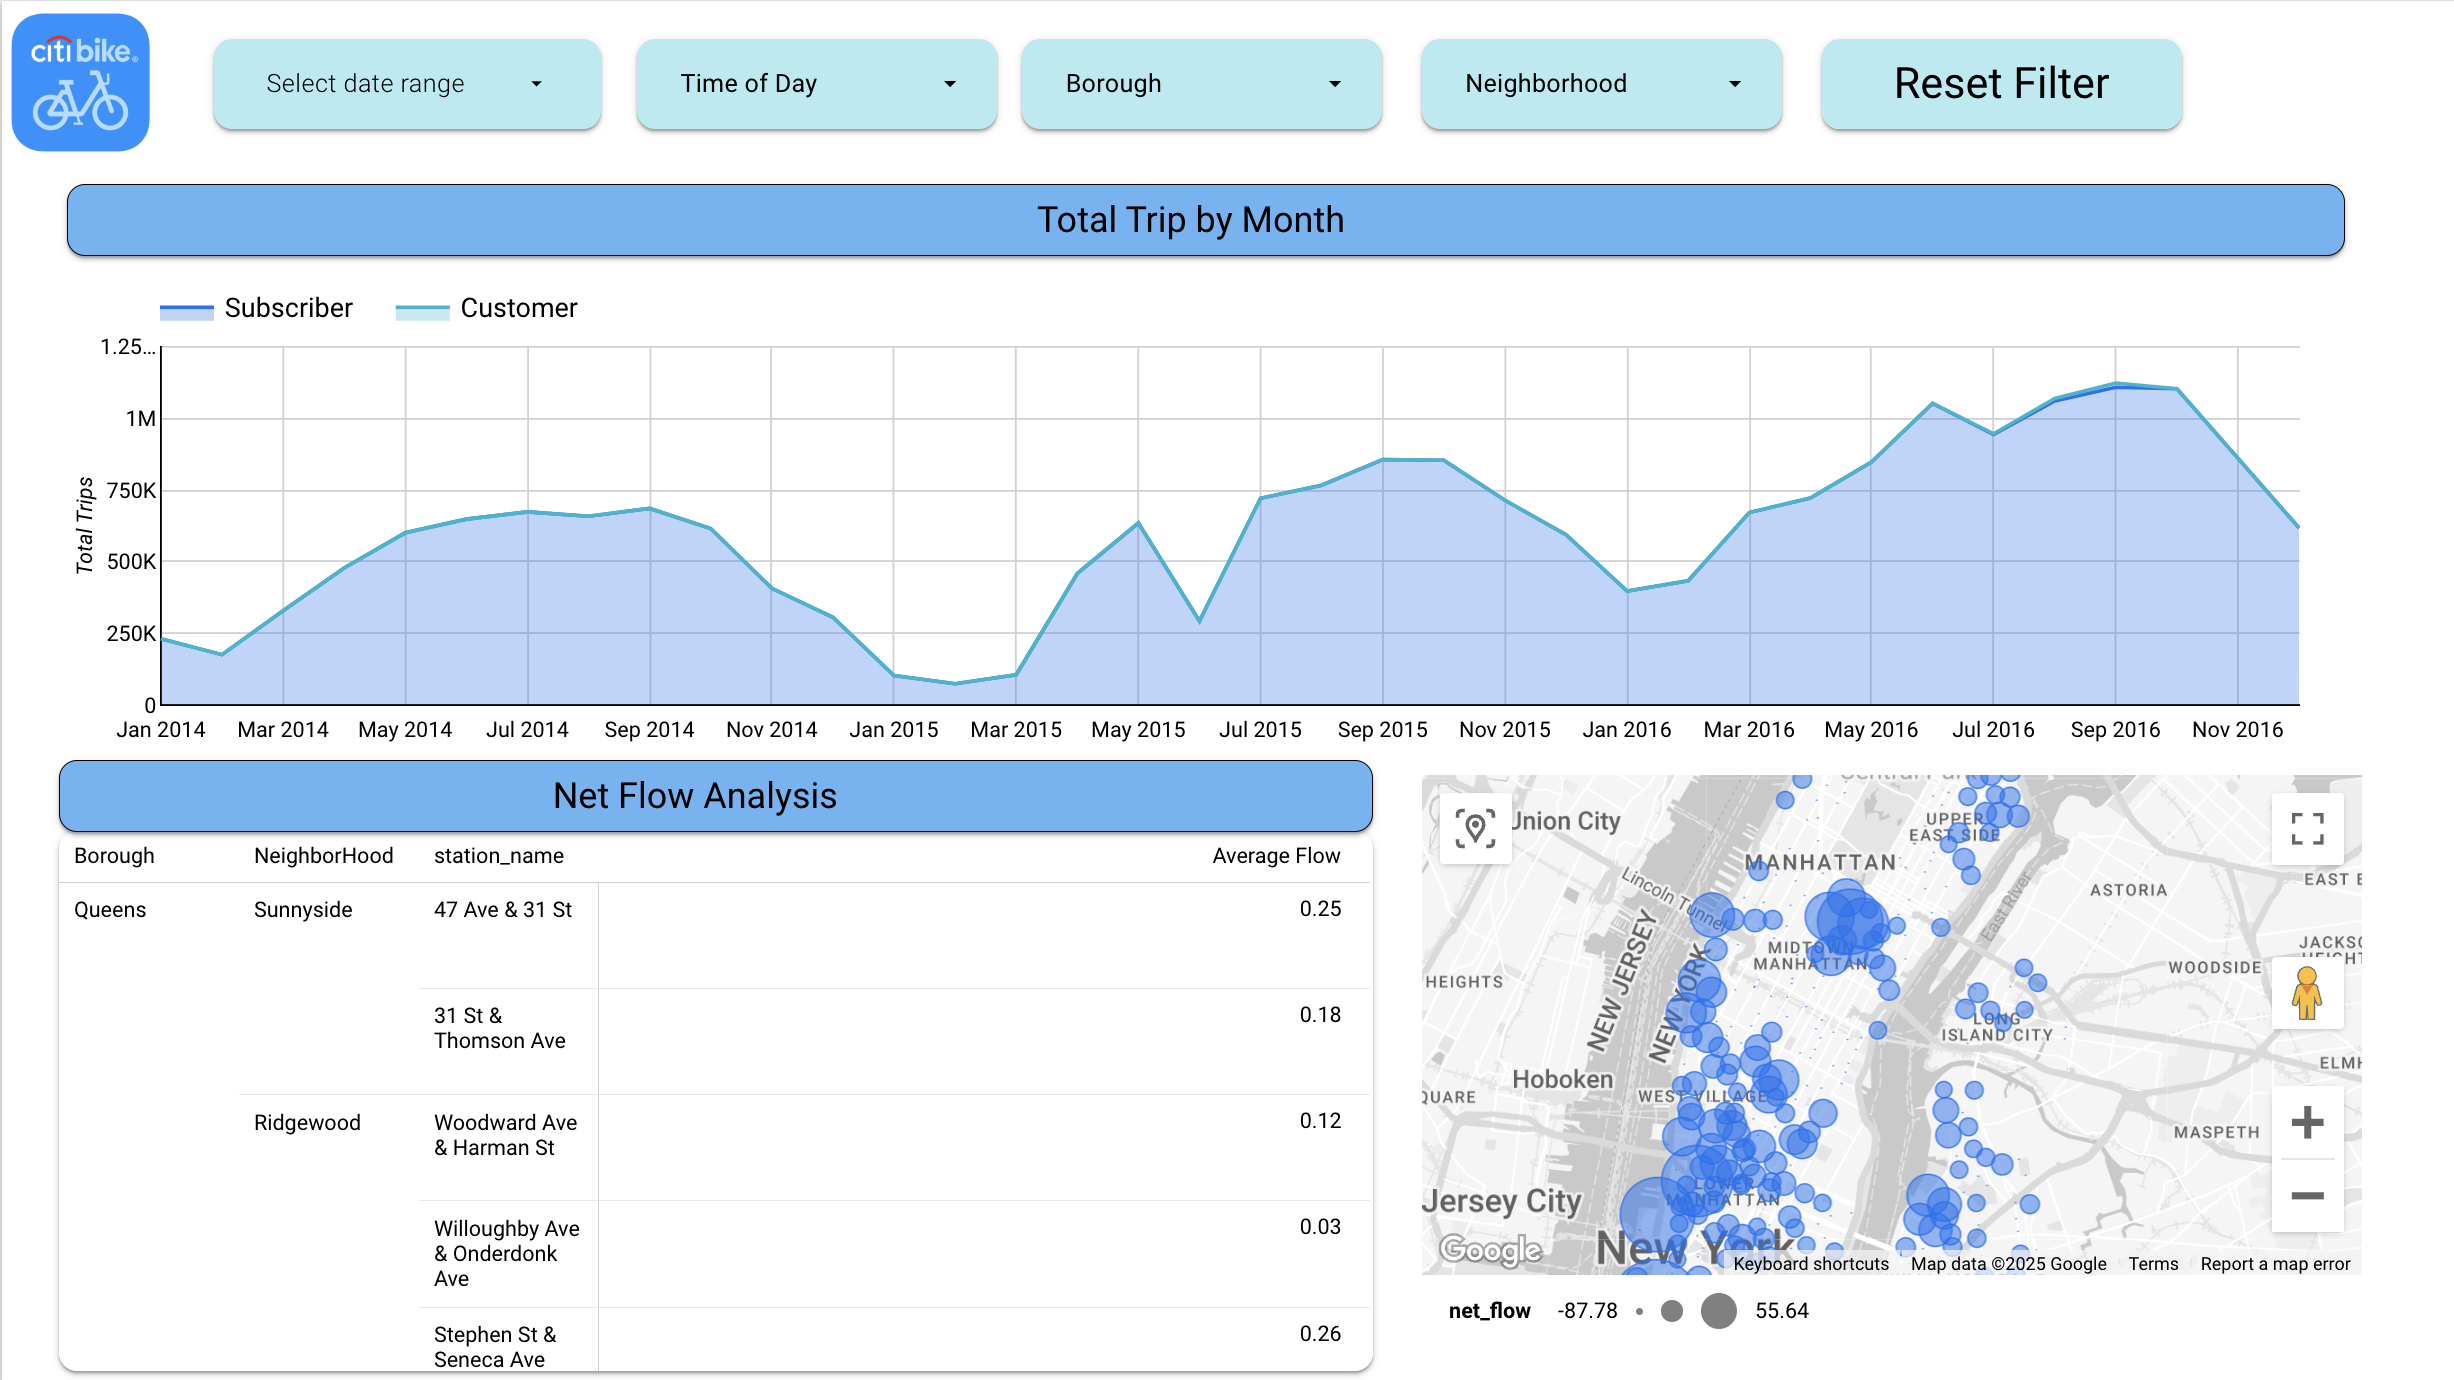
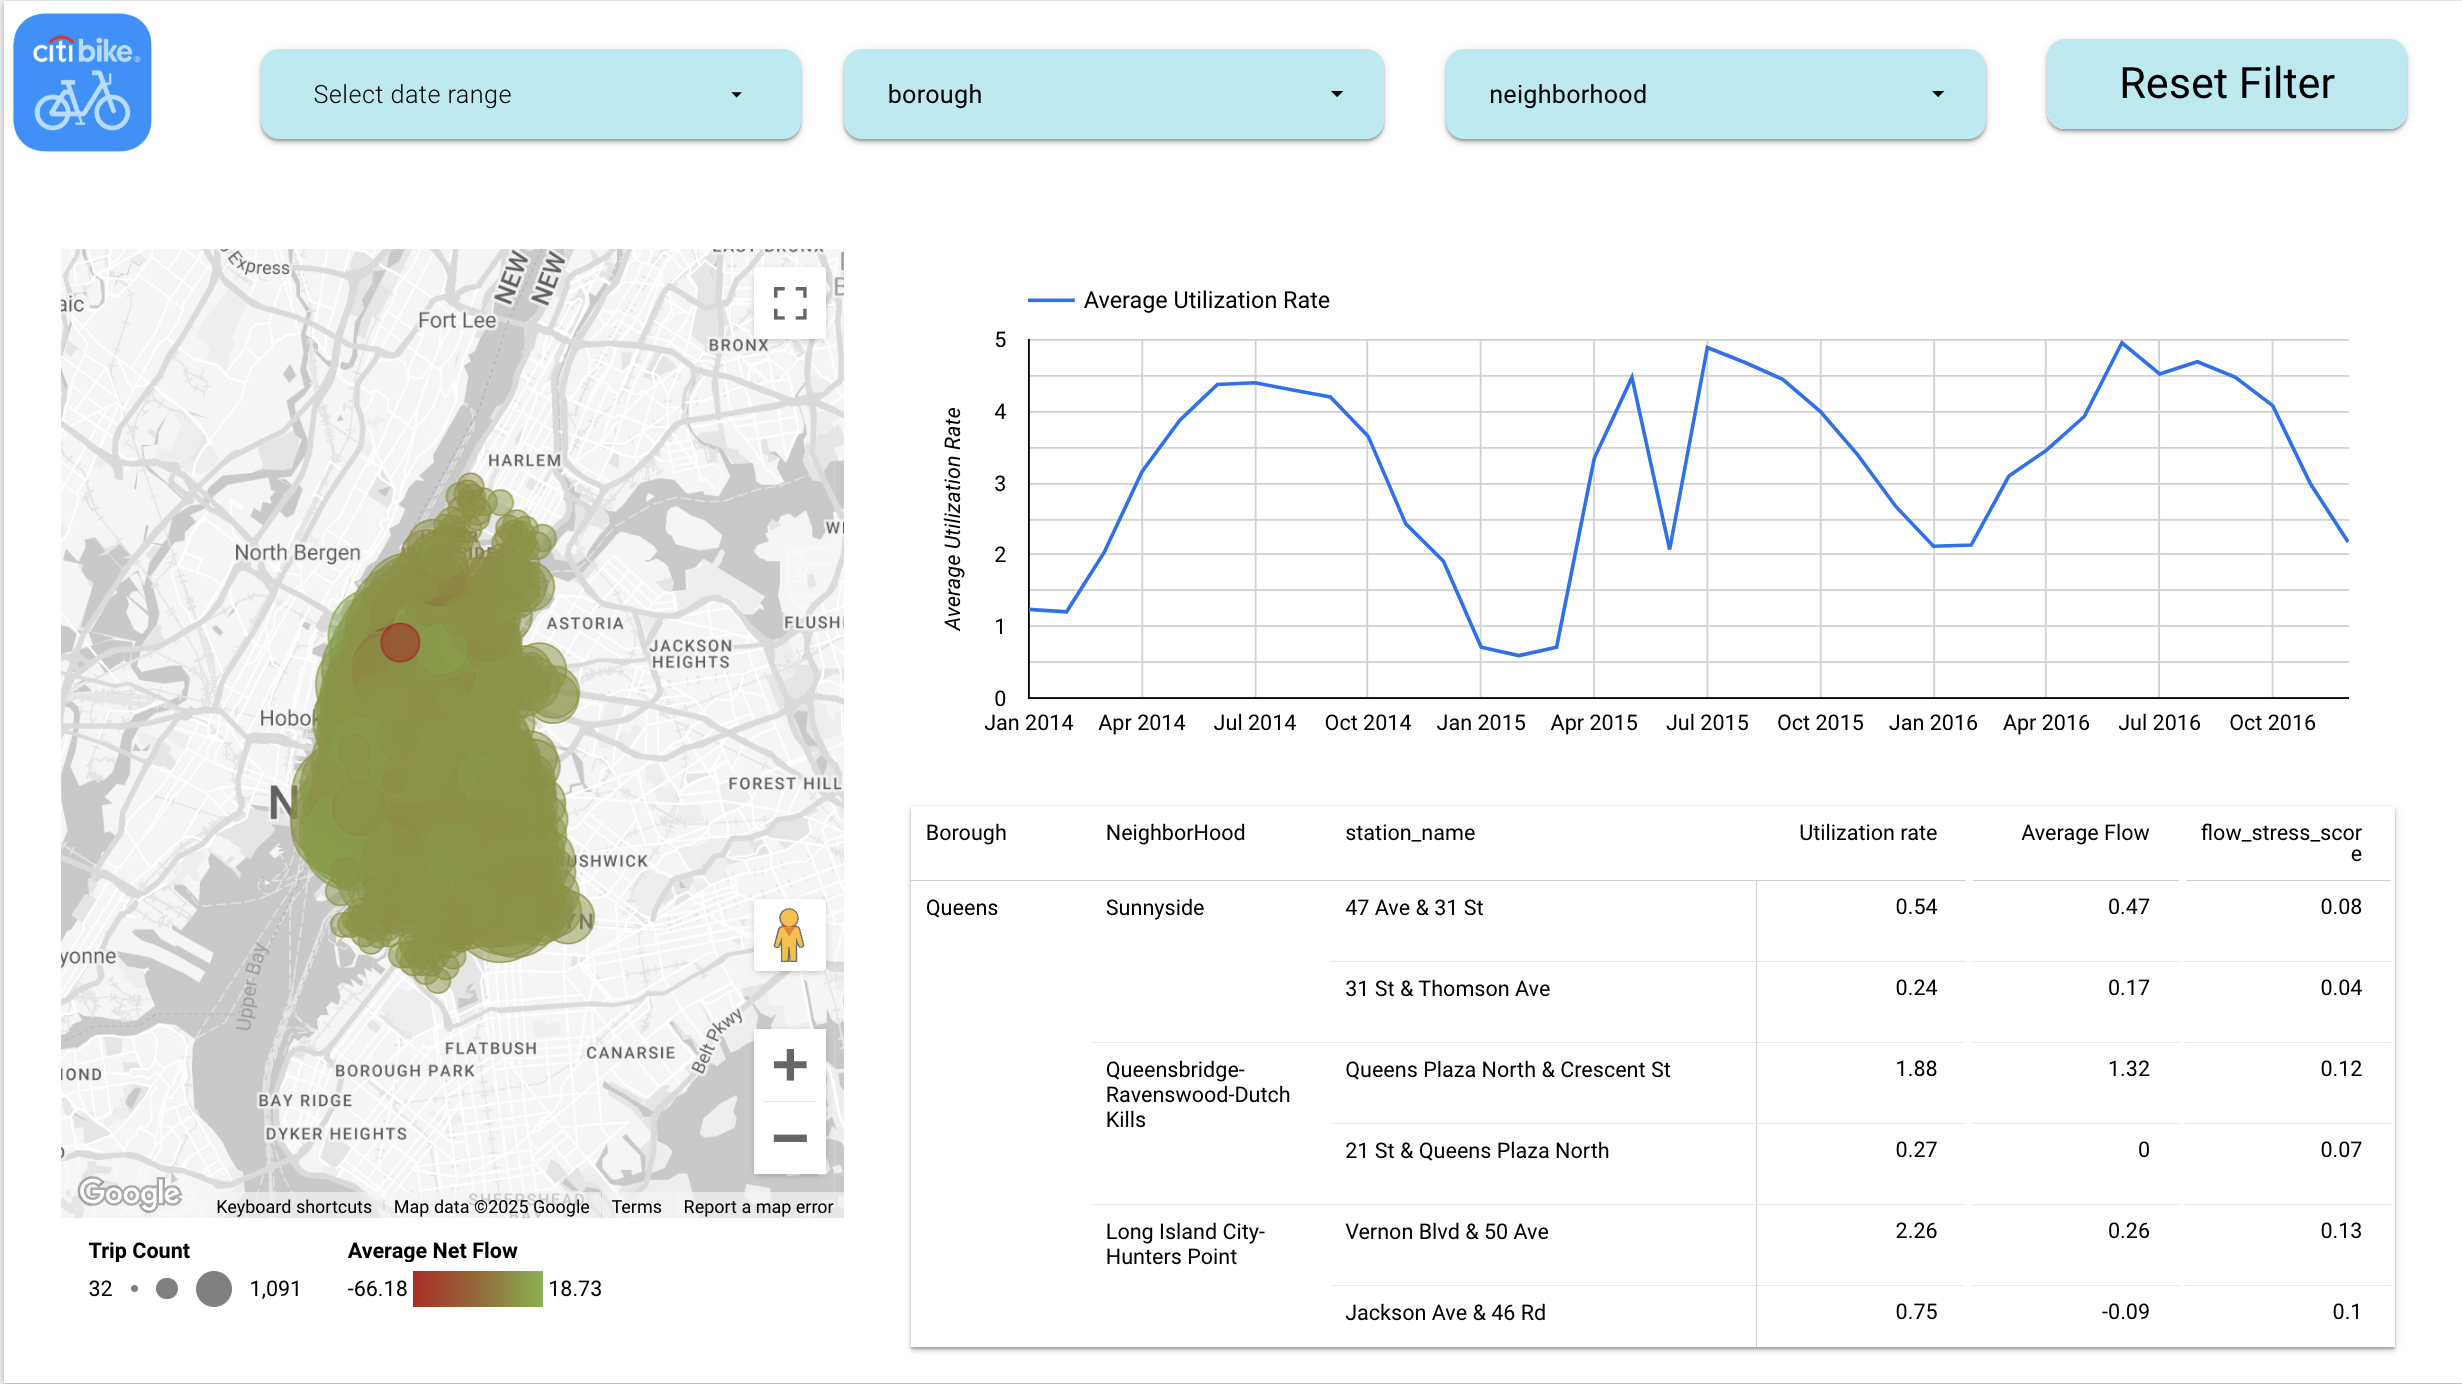
fix dashboard

diff --git a/README.md b/README.md
@@ -64,28 +64,51 @@ This section is ideal for identifying commuting patterns, high-demand travel cor
 
 ---
 
-### 📄 Page 3: Monthly Trends & Net Flow Analysis
+### 📄 Page 3: Station Utilization & Net Flow Analysis
 
-![Monthly Trips and Net Flow - Report Page 3](pic/report-3.png)
+![Utilization and Net Flow - Report Page 3](pic/report-3.png)
 
-This page focuses on **temporal patterns** and **station-level balance**, offering a macro and micro view of operational dynamics.
+This page highlights **station performance health** by visualizing two operational KPIs:
+- **Utilization Rate**: How intensively stations are used compared to their capacity.
+- **Net Flow**: The balance between trips started and ended at each station.
 
-#### Part 1: Total Trips by Month
-- **Line chart** shows monthly ridership from **Jan 2014 to Dec 2016**.
-- Split by user type (Subscriber vs Customer).
-- Reveals seasonal peaks and long-term growth trends.
+---
 
-#### Part 2: Net Flow Analysis
-- Measures station-level flow:
-  
+#### Part 1: Utilization Rate Over Time
+- A **line chart** shows the **average utilization rate** across the network from **Jan 2014 to Dec 2016**.
+- Utilization is defined as:
+
   ```
-  Net Flow = Trips Ended - Trips Started
+  Utilization Rate = (Trips Started + Trips Ended) / Capacity
   ```
 
-- Indicates whether a station is a net **trip origin or destination**.
-- Used to detect imbalances and manage fleet distribution.
+- Seasonal trends are clearly visible, with peaks typically in spring and summer months.
+- A higher rate suggests **higher infrastructure pressure** on docking stations.
 
-##### 📊 Net Flow Interpretation Table
+---
+
+#### Part 2: Station-Level Net Flow Map
+- The **interactive map** shows each station as a bubble:
+  - **Color** = Average Net Flow (green = surplus, red = shortage)
+  - **Size** = Trip Count
+- Enables geographic identification of **bike surplus/shortage zones**.
+
+---
+
+#### 📊 Sample Metrics Table
+
+| Borough | Neighborhood | Station Name                    | Utilization Rate | Average Flow | Flow Stress Score |
+|---------|--------------|----------------------------------|------------------|---------------|--------------------|
+| Queens  | Sunnyside    | 47 Ave & 31 St                  | 0.54             | 0.47          | 0.08               |
+| Queens  | Dutch Kills  | Queens Plaza N & Crescent St    | 1.88             | 1.32          | 0.12               |
+| Queens  | Hunters Point| Vernon Blvd & 50 Ave            | 2.26             | 0.26          | 0.13               |
+
+- **Flow Stress Score** = `ABS(Net Flow) / Capacity`
+  - A higher score indicates stations that may be **imbalanced relative to their size**.
+
+---
+
+#### 📌 Interpretation Table
 
 | **Net Flow Value** | **Meaning**                                                                                     | **Potential Location Analysis**                                             |
 |--------------------|-------------------------------------------------------------------------------------------------|------------------------------------------------------------------------------|
@@ -93,13 +116,20 @@ This page focuses on **temporal patterns** and **station-level balance**, offeri
 | `< 0`              | More trips **started** than ended → Indicates an **origin station**.<br>🔴 Potential **bike shortage**.                | Common in **office zones**, **commuter hubs**, or **campuses**.             |
 | `= 0`              | Balanced station usage → Equal inbound and outbound flow.<br>⚖ **No imbalance**, efficient flow.                     | Typically found in **mixed-use areas**, like **downtowns** or **tourist areas**. |
 
-#### Filters Available:
+---
+
+#### 🎛 Available Filters
 - **Date Range**
-- **Time of Day**
 - **Borough**
 - **Neighborhood**
+- **Time of Day**
 
-This page is especially valuable for **logistics teams**, **urban planners**, and **data-driven policy design**.
+This page is a powerful tool for identifying:
+- **Overloaded or underused stations**
+- **Geographic flow imbalances**
+- **Seasonal pressure on infrastructure**
+
+Ideal for **operational logistics**, **urban infrastructure teams**, and **strategic planning discussions**.
 
 
 ---
